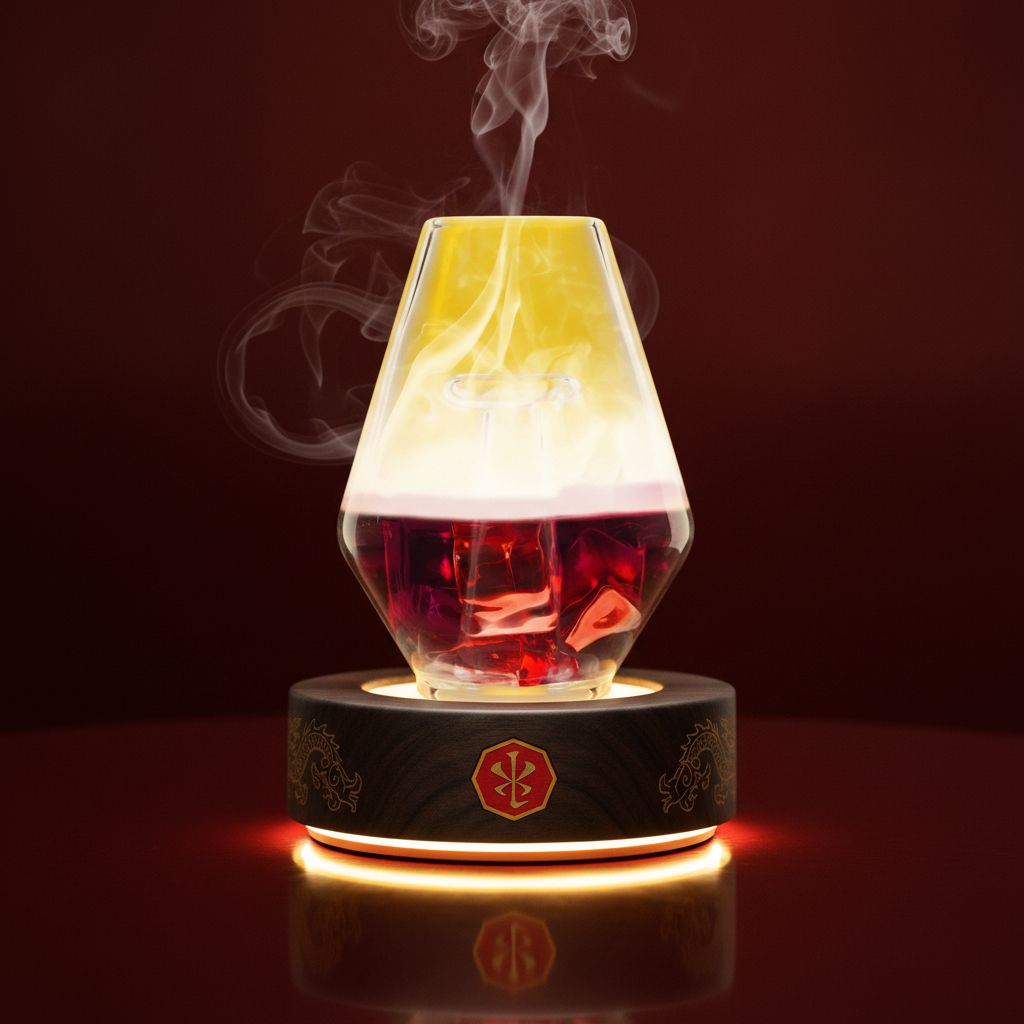
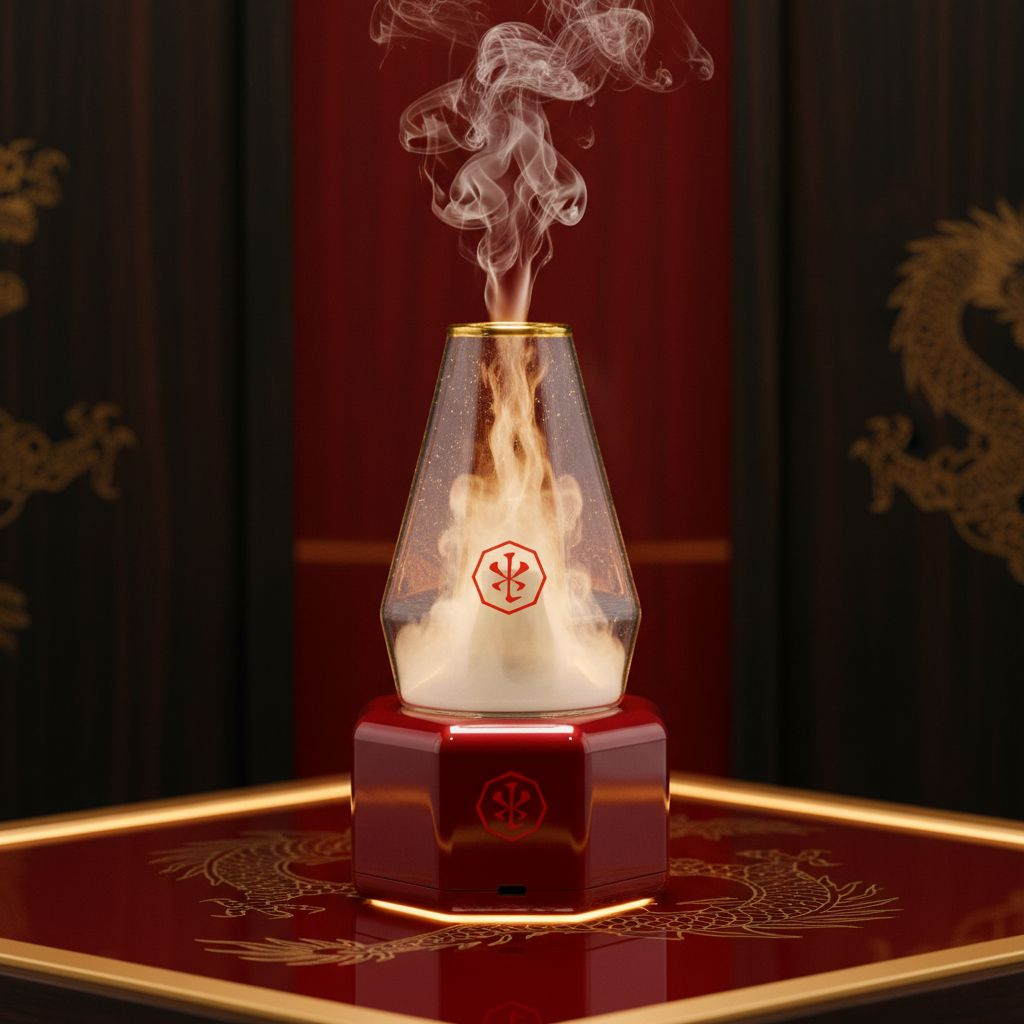
Use the REAL Chalice vaporizer everywhere (clear glass + vapor, not a liquid goblet)
- Regenerate all 6 mockups driven by the real shopxiaolin.com Chalice product photos (clear faceted glass dome, gold rim, red octagon seal, hexagonal base, vapor)
- Cover: redraw SVG as clear vapor chalice (gold rim, seal, hex base) — remove red-liquid goblet
- Chalice slide: real product photo (chalice/c5) + corrected copy (no 'liquid/ember')
- Cache-bust to ?v=6 so regenerated same-name images load (prior Zenco/goblet frames were cached, even incognito)

diff --git a/index.html b/index.html
@@ -215,16 +215,25 @@
     <div class="coin" aria-label="Made in Xiaolin seal"><div class="spin"><img class="face" src="img/Xiaolin_Logo_3_f952c9dd-0f8e-4fb8-bbce-12ca0981d697.png" alt="Made in Xiaolin seal"/><img class="face back" src="img/Xiaolin_Logo_3_f952c9dd-0f8e-4fb8-bbce-12ca0981d697.png" alt=""/></div></div>
     <div class="marque">Made in Xiaolin <span class="x">×</span> SYPP Cloud Bar</div>
     <div class="chalice-stage" aria-hidden="true">
-      <svg viewBox="0 0 240 320">
-        <ellipse class="cloud-anim" cx="120" cy="30" rx="34" ry="16" fill="url(#halo)"/>
-        <ellipse class="cloud-anim" cx="120" cy="50" rx="20" ry="9" fill="url(#halo)" opacity=".7" style="animation-delay:1.5s"/>
-        <path d="M120 70 L196 150 Q210 200 175 232 Q120 270 65 232 Q30 200 44 150 Z" fill="url(#glass)" stroke="#f7d27e" stroke-opacity=".6" stroke-width="1.4"/>
-        <path d="M58 205 Q120 250 182 205 Q190 232 168 250 Q120 282 72 250 Q50 232 58 205 Z" fill="url(#liq)" opacity=".92"/>
-        <rect x="113" y="118" width="14" height="60" rx="6" fill="#2a1408" stroke="#f0cf86" stroke-opacity=".55"/>
-        <ellipse cx="120" cy="118" rx="20" ry="6" fill="#3a1c10" stroke="#f7d27e" stroke-opacity=".45"/>
-        <ellipse cx="120" cy="262" rx="74" ry="20" fill="url(#lac)"/>
-        <ellipse cx="120" cy="256" rx="74" ry="14" fill="none" stroke="#f0cf86" stroke-opacity=".6"/>
-        <ellipse class="underglow" cx="120" cy="288" rx="92" ry="16" fill="url(#rhalo)" opacity=".8"/>
+      <svg viewBox="0 0 240 340">
+        <!-- rising vapor (the Chalice fills with vapor, not liquid) -->
+        <ellipse class="cloud-anim" cx="120" cy="24" rx="30" ry="15" fill="url(#halo)"/>
+        <ellipse class="cloud-anim" cx="120" cy="46" rx="18" ry="8" fill="url(#halo)" opacity=".7" style="animation-delay:1.5s"/>
+        <ellipse class="underglow" cx="120" cy="172" rx="38" ry="44" fill="url(#halo)" opacity=".5"/>
+        <!-- clear faceted glass dome -->
+        <path d="M120 72 L188 150 Q198 196 168 224 Q120 252 72 224 Q42 196 52 150 Z" fill="#ffffff" fill-opacity=".06" stroke="#f7d27e" stroke-opacity=".55" stroke-width="1.4"/>
+        <path d="M120 72 L188 150 Q198 196 168 224 Q120 252 72 224 Q42 196 52 150 Z" fill="none" stroke="#ffffff" stroke-opacity=".16" stroke-width="3"/>
+        <!-- gold rim at the top opening -->
+        <ellipse cx="120" cy="74" rx="26" ry="7" fill="#1a0a0b" fill-opacity=".5"/>
+        <ellipse cx="120" cy="74" rx="26" ry="7" fill="none" stroke="#f0cf86" stroke-width="3"/>
+        <!-- black mouthpiece -->
+        <rect x="111" y="150" width="18" height="34" rx="8" fill="#15090a"/>
+        <!-- red Xiaolin seal on the glass -->
+        <image href="img/Xiaolin_Logo_3_f952c9dd-0f8e-4fb8-bbce-12ca0981d697.png" x="99" y="118" width="42" height="42" opacity=".96"/>
+        <!-- hexagonal base -->
+        <polygon points="48,278 78,252 162,252 192,278 162,304 78,304" fill="url(#lac)" stroke="#f0cf86" stroke-opacity=".5" stroke-width="1.2"/>
+        <image href="img/Xiaolin_Logo_3_f952c9dd-0f8e-4fb8-bbce-12ca0981d697.png" x="108" y="266" width="24" height="24" opacity=".9"/>
+        <ellipse class="underglow" cx="120" cy="312" rx="90" ry="14" fill="url(#rhalo)" opacity=".7"/>
       </svg>
     </div>
     <div class="cn-big">雲 儀</div>
@@ -264,12 +273,12 @@
     <div class="kicker"><span class="num">02</span>The Hero Object<span class="cn">器</span></div>
     <div class="grid g2">
       <div class="vitrine gframe" style="aspect-ratio:1/1;max-height:64vh">
-        <img src="img/gen/hero-chalice.jpg?v=4" alt="The Chalice — faceted ritual vessel in red & gold" onerror="this.src='img/glass-on-yellow_2-1-503x1024.png';this.parentElement.classList.add('contain')" />
-        <span class="cap"><b>The Chalice</b>Faceted diamond vessel · red glass core · gold cloud · black-walnut base.</span>
+        <img src="img/chalice/c5.jpg" alt="The Made in Xiaolin Chalice vaporizer filling with vapor" onerror="this.src='img/gen/hero-chalice.jpg?v=6'" />
+        <span class="cap"><b>The Chalice · Made in Xiaolin</b>Faceted clear-glass dome · gold rim · red Xiaolin seal · fills with vapor on a hexagonal base.</span>
       </div>
       <div>
         <h2>The Chalice</h2>
-        <p class="lead">A diamond-cut vessel of museum-grade glass — a red ember at its heart, a gold cloud rising from it. The centerpiece of every ritual, and the engine of the ecosystem.</p>
+        <p class="lead">A faceted glass dome on a hexagonal base — clear crystal that fills with a luminous cloud, crowned by a gold rim and the Xiaolin seal. The centerpiece of every ritual, and the engine of the ecosystem.</p>
         <div class="grid g2" style="gap:.5rem 1.4rem;margin-top:1.4rem">
           <ul class="clean"><li>Premium ritual hardware</li><li>Collectible luxury object</li></ul>
           <ul class="clean"><li>Social technology platform</li><li>Recurring engagement device</li></ul>
@@ -291,9 +300,9 @@
     <h2>The Cloud Ritual Bar</h2>
     <p class="lead" style="margin-bottom:1.5rem">The architecture that frames the Chalice — lacquer red &amp; gold, LED-lit, modular. Deployable from a countertop footprint to a full lounge build, engineered for fast, compliant setup in any licensed environment.</p>
     <div class="grid g3" style="gap:1.3rem">
-      <div class="vitrine gframe" style="aspect-ratio:4/3"><img src="img/gen/popup-dispensary.jpg?v=4" alt="Branded Cloud Bar pop-up in a dispensary" onerror="this.closest('.vitrine').style.display='none'"/><span class="cap"><b>Dispensary Pop-Up</b>Portable podium, red &amp; gold, Xiaolin seal — drops into any retail floor.</span></div>
-      <div class="vitrine gframe" style="aspect-ratio:4/3"><img src="img/gen/installation-trays.jpg?v=4" alt="Modular LED Cloud Bar trays" onerror="this.closest('.vitrine').style.display='none'"/><span class="cap"><b>Modular LED Trays</b>Chalices on walnut bases, gold underglow — countertop to bar.</span></div>
-      <div class="vitrine gframe" style="aspect-ratio:4/3"><img src="img/gen/nightlife.jpg?v=4" alt="Nightlife lounge Cloud Bar" onerror="this.closest('.vitrine').style.display='none'"/><span class="cap"><b>Nightlife Activation</b>Low light, lacquer red, a social centerpiece.</span></div>
+      <div class="vitrine gframe" style="aspect-ratio:4/3"><img src="img/gen/popup-dispensary.jpg?v=6" alt="Branded Cloud Bar pop-up in a dispensary" onerror="this.closest('.vitrine').style.display='none'"/><span class="cap"><b>Dispensary Pop-Up</b>Portable podium, red &amp; gold, Xiaolin seal — drops into any retail floor.</span></div>
+      <div class="vitrine gframe" style="aspect-ratio:4/3"><img src="img/gen/installation-trays.jpg?v=6" alt="Modular LED Cloud Bar trays" onerror="this.closest('.vitrine').style.display='none'"/><span class="cap"><b>Modular LED Trays</b>Chalices on walnut bases, gold underglow — countertop to bar.</span></div>
+      <div class="vitrine gframe" style="aspect-ratio:4/3"><img src="img/gen/nightlife.jpg?v=6" alt="Nightlife lounge Cloud Bar" onerror="this.closest('.vitrine').style.display='none'"/><span class="cap"><b>Nightlife Activation</b>Low light, lacquer red, a social centerpiece.</span></div>
     </div>
     <p class="small" style="margin-top:1.3rem;color:var(--gold-deep)">The Cloud Bar supports the Chalice — restrained, architectural, never competing for the eye.</p>
   </div>
@@ -513,7 +522,7 @@
         <p class="small"><span class="em">Made in Xiaolin becomes the <span class="gold">flagship evolution</span> of a proven platform</span> — not a prototype, but a premium re-skin of infrastructure already working in the field.</p>
       </div>
       <div class="vitrine gframe" style="aspect-ratio:1/1">
-        <img src="img/gen/tasting-dispensary.jpg?v=4" alt="Branded Cloud Bar tasting inside a dispensary" onerror="this.src='img/gen/hero-chalice.jpg?v=4'"/>
+        <img src="img/gen/tasting-dispensary.jpg?v=6" alt="Branded Cloud Bar tasting inside a dispensary" onerror="this.src='img/gen/hero-chalice.jpg?v=6'"/>
         <span class="cap"><b>Live in-store today</b>SYPP Cloud Bars already running guided ritual tastings inside licensed dispensaries.</span>
       </div>
     </div>
@@ -548,12 +557,12 @@
     <h2>Environments</h2>
     <p class="small" style="color:var(--gold);margin-bottom:1.2rem">Lacquer red, gold trim, warm LED, the Xiaolin chop — branded mockups generated from SYPP's real Cloud Bar systems.</p>
     <div class="grid g3" style="gap:1.1rem">
-      <div class="vitrine gframe" style="aspect-ratio:4/3"><img src="img/gen/hero-chalice.jpg?v=4" alt="" onerror="this.closest('.vitrine').style.display='none'"/><span class="cap"><b>The Chalice</b>Museum product display.</span></div>
-      <div class="vitrine gframe" style="aspect-ratio:4/3"><img src="img/gen/popup-dispensary.jpg?v=4" alt="" onerror="this.closest('.vitrine').style.display='none'"/><span class="cap"><b>Dispensary Pop-Up</b>Branded portable bar.</span></div>
-      <div class="vitrine gframe" style="aspect-ratio:4/3"><img src="img/gen/tasting-dispensary.jpg?v=4" alt="" onerror="this.closest('.vitrine').style.display='none'"/><span class="cap"><b>Guided Tasting</b>Ritual at the counter.</span></div>
-      <div class="vitrine gframe" style="aspect-ratio:4/3"><img src="img/gen/installation-trays.jpg?v=4" alt="" onerror="this.closest('.vitrine').style.display='none'"/><span class="cap"><b>Modular Trays</b>Countertop to bar.</span></div>
-      <div class="vitrine gframe" style="aspect-ratio:4/3"><img src="img/gen/nightlife.jpg?v=4" alt="" onerror="this.closest('.vitrine').style.display='none'"/><span class="cap"><b>Nightlife Lounge</b>Atmospheric centerpiece.</span></div>
-      <div class="vitrine gframe" style="aspect-ratio:4/3"><img src="img/gen/event.jpg?v=4" alt="" onerror="this.closest('.vitrine').style.display='none'"/><span class="cap"><b>Event Activation</b>Gold cloud canopy.</span></div>
+      <div class="vitrine gframe" style="aspect-ratio:4/3"><img src="img/gen/hero-chalice.jpg?v=6" alt="" onerror="this.closest('.vitrine').style.display='none'"/><span class="cap"><b>The Chalice</b>Museum product display.</span></div>
+      <div class="vitrine gframe" style="aspect-ratio:4/3"><img src="img/gen/popup-dispensary.jpg?v=6" alt="" onerror="this.closest('.vitrine').style.display='none'"/><span class="cap"><b>Dispensary Pop-Up</b>Branded portable bar.</span></div>
+      <div class="vitrine gframe" style="aspect-ratio:4/3"><img src="img/gen/tasting-dispensary.jpg?v=6" alt="" onerror="this.closest('.vitrine').style.display='none'"/><span class="cap"><b>Guided Tasting</b>Ritual at the counter.</span></div>
+      <div class="vitrine gframe" style="aspect-ratio:4/3"><img src="img/gen/installation-trays.jpg?v=6" alt="" onerror="this.closest('.vitrine').style.display='none'"/><span class="cap"><b>Modular Trays</b>Countertop to bar.</span></div>
+      <div class="vitrine gframe" style="aspect-ratio:4/3"><img src="img/gen/nightlife.jpg?v=6" alt="" onerror="this.closest('.vitrine').style.display='none'"/><span class="cap"><b>Nightlife Lounge</b>Atmospheric centerpiece.</span></div>
+      <div class="vitrine gframe" style="aspect-ratio:4/3"><img src="img/gen/event.jpg?v=6" alt="" onerror="this.closest('.vitrine').style.display='none'"/><span class="cap"><b>Event Activation</b>Gold cloud canopy.</span></div>
     </div>
   </div>
   <div class="brandbar"><span class="mark"><img src="img/Xiaolin_Logo_3_f952c9dd-0f8e-4fb8-bbce-12ca0981d697.png" alt=""/> XIAOLIN × SYPP</span><span>Visual Mockups</span></div>

diff --git a/tools/gen.py b/tools/gen.py
@@ -19,69 +19,66 @@ BRAND = (
     "rich red and gold throughout, no gibberish text or watermarks."
 )
 
-# The ONLY vessel allowed in any scene is the Chalice (the red-glass diamond
-# vessel from hero-chalice.jpg). Never the clear Zenco-style cups, never
-# disposable cups, never wine/cocktail glassware.
+# The ONLY device allowed in any scene is the real Made in Xiaolin CHALICE
+# vaporizer (shopxiaolin.com/products/chalice): a clear faceted glass dome with
+# a gold rim, the red octagonal Xiaolin seal on the glass, on a hexagonal base.
+# Never the clear Zenco wine-style glasses, never red-liquid goblets, never cups.
 CHALICE = (
-    "THE Chalice from the first reference image is the ONLY vessel in the scene: "
-    "a faceted diamond-cut glass chalice with a deep red glass core and warm gold "
-    "vapor rising from the top, seated on a turned black-walnut base with a warm "
-    "gold LED ring. Render this exact chalice, unchanged. STRICT: do NOT include "
-    "any other cups, clear glasses, tumblers, wine or cocktail glasses, beakers, "
-    "or disposable cups — only the red Chalice. "
+    "THE Chalice vaporizer from the reference images is the ONLY device in the "
+    "scene: a tall faceted diamond-shaped CLEAR glass dome with a polished gold "
+    "rim around the top opening and the red octagonal Xiaolin seal printed on the "
+    "glass, seated on a compact hexagonal puck base (black or lacquer-red) with a "
+    "small black mouthpiece in the center; luminous warm white-and-gold vapor "
+    "swirls inside the glass and rises from the top. Render this exact device "
+    "design unchanged. STRICT: do NOT include any other vessels — no wine or "
+    "cocktail glasses, no clear tumblers, no red-liquid goblets, no beakers, no "
+    "disposable cups. Only this Chalice vaporizer. "
 )
+CHREF = ["chalice/c7.jpg", "chalice/c1.jpg", "Xiaolin_Logo_3_f952c9dd-0f8e-4fb8-bbce-12ca0981d697.png"]
 
 # (filename, [reference local files], prompt, aspect)
 TARGETS = [
-    ("hero-chalice.jpg",
-     ["glass-on-yellow_2-1-503x1024.png", "Xiaolin_Logo_3_f952c9dd-0f8e-4fb8-bbce-12ca0981d697.png"],
-     "Museum-style luxury product photograph of THE faceted diamond glass ritual "
-     "chalice vessel from the first reference image — red glass core, gold vapor — "
-     "sitting on a turned black-walnut wood base with a warm gold LED ring glowing "
-     "beneath it, on a deep lacquer-red surface with soft gold rim light and a thin "
-     "wisp of pale vapor rising. The red-and-gold octagonal Xiaolin temple seal from "
-     "the second image is subtly embossed on the base. " + BRAND, "1:1"),
+    ("hero-chalice.jpg", CHREF,
+     "Museum-style luxury product photograph. " + CHALICE + "It stands on a deep "
+     "lacquer-red surface with fine gold dragon line-work and warm gold rim light, "
+     "luminous vapor swirling inside the glass and a wisp rising from the top. " + BRAND, "1:1"),
 
-    ("popup-dispensary.jpg",
-     ["gen/hero-chalice.jpg", "Xiaolin_Logo_3_f952c9dd-0f8e-4fb8-bbce-12ca0981d697.png"],
+    ("popup-dispensary.jpg", CHREF,
      "A premium portable Cloud Bar pop-up podium, glossy lacquer-red with gold trim and "
      "a warm gold LED rim, the red-and-gold octagonal Xiaolin temple seal printed large "
-     "and centered on the front. " + CHALICE + "Two or three of these identical red "
-     "Chalices stand on top of the podium. It is set inside an upscale modern cannabis "
-     "dispensary with warm walnut shelving and premium retail lighting. " + BRAND, "4:3"),
+     "and centered on the front. " + CHALICE + "Two or three of these identical Chalice "
+     "vaporizers stand on top of the podium, vapor rising. Set inside an upscale modern "
+     "cannabis dispensary with warm walnut shelving and premium retail lighting. " + BRAND, "4:3"),
 
-    ("tasting-dispensary.jpg",
-     ["gen/hero-chalice.jpg", "Xiaolin_Logo_3_f952c9dd-0f8e-4fb8-bbce-12ca0981d697.png"],
+    ("tasting-dispensary.jpg", CHREF,
      "An elegant ritual guide hosting a customer through a cloud tasting at a curved "
      "premium dispensary counter. " + CHALICE + "On the counter, a lacquer-red LED tray "
-     "with gold trim holds two or three of these identical red Chalices. The red-and-gold "
-     "octagonal Xiaolin temple seal appears on a small display card. Warm, intimate, "
-     "premium retail interior with red and gold accent lighting. Candid editorial "
-     "photograph. " + BRAND, "4:3"),
+     "with gold trim holds two or three of these identical Chalice vaporizers, vapor "
+     "rising. The red-and-gold octagonal Xiaolin temple seal appears on a small display "
+     "card. Warm, intimate, premium retail interior with red and gold accent lighting. "
+     "Candid editorial photograph. " + BRAND, "4:3"),
 
-    ("installation-trays.jpg",
-     ["gen/hero-chalice.jpg", "Xiaolin_Logo_3_f952c9dd-0f8e-4fb8-bbce-12ca0981d697.png"],
+    ("installation-trays.jpg", CHREF,
      "Museum-style product display of a modular Cloud Bar LED tray, lacquer-red with gold "
-     "metallic trim and a warm gold LED underglow. " + CHALICE + "Three identical red "
-     "Chalices sit on the tray. Arranged on a black-and-red lacquer surface, the small "
-     "gold octagonal Xiaolin seal etched on the tray. Dramatic premium product lighting, "
-     "red and gold. " + BRAND, "4:3"),
+     "metallic trim and a warm gold LED underglow. " + CHALICE + "Three identical Chalice "
+     "vaporizers sit on the tray, vapor rising. Arranged on a black-and-red lacquer "
+     "surface, the small gold octagonal Xiaolin seal etched on the tray. Dramatic premium "
+     "product lighting, red and gold. " + BRAND, "4:3"),
 
-    ("nightlife.jpg",
-     ["gen/hero-chalice.jpg", "Xiaolin_Logo_3_f952c9dd-0f8e-4fb8-bbce-12ca0981d697.png"],
+    ("nightlife.jpg", CHREF,
      "A luxury nightlife lounge Cloud Ritual bar finished in lacquer-red and gold with "
-     "warm gold LED underlighting. " + CHALICE + "A row of these identical red Chalices "
-     "glows along the bar top. Atmospheric low light, elegantly dressed guests softly "
-     "blurred in the background. The red-and-gold octagonal Xiaolin temple seal glows on "
-     "the front of the bar. Cinematic editorial hospitality photograph. " + BRAND, "16:9"),
+     "warm gold LED underlighting. " + CHALICE + "A row of these identical Chalice "
+     "vaporizers glows along the bar top, vapor rising. Atmospheric low light, elegantly "
+     "dressed guests softly blurred in the background. The red-and-gold octagonal Xiaolin "
+     "temple seal glows on the front of the bar. Cinematic editorial hospitality "
+     "photograph. " + BRAND, "16:9"),
 
-    ("event.jpg",
-     ["gen/hero-chalice.jpg", "Xiaolin_Logo_3_f952c9dd-0f8e-4fb8-bbce-12ca0981d697.png"],
+    ("event.jpg", CHREF,
      "A premium event activation Cloud Bar in lacquer-red and gold beneath a soft gold "
-     "cloud canopy. " + CHALICE + "A row of these identical red Chalices glows along the "
-     "bar. Fine gold dragon line-work, the red-and-gold octagonal Xiaolin temple seal as "
-     "the hero logo on the bar front, a stylish product-launch setting with warm gold "
-     "light and blurred guests. Cinematic editorial. " + BRAND, "16:9"),
+     "cloud canopy. " + CHALICE + "A row of these identical Chalice vaporizers glows along "
+     "the bar, vapor rising. Fine gold dragon line-work, the red-and-gold octagonal "
+     "Xiaolin temple seal as the hero logo on the bar front, a stylish product-launch "
+     "setting with warm gold light and blurred guests. Cinematic editorial. " + BRAND, "16:9"),
 ]
 
 
